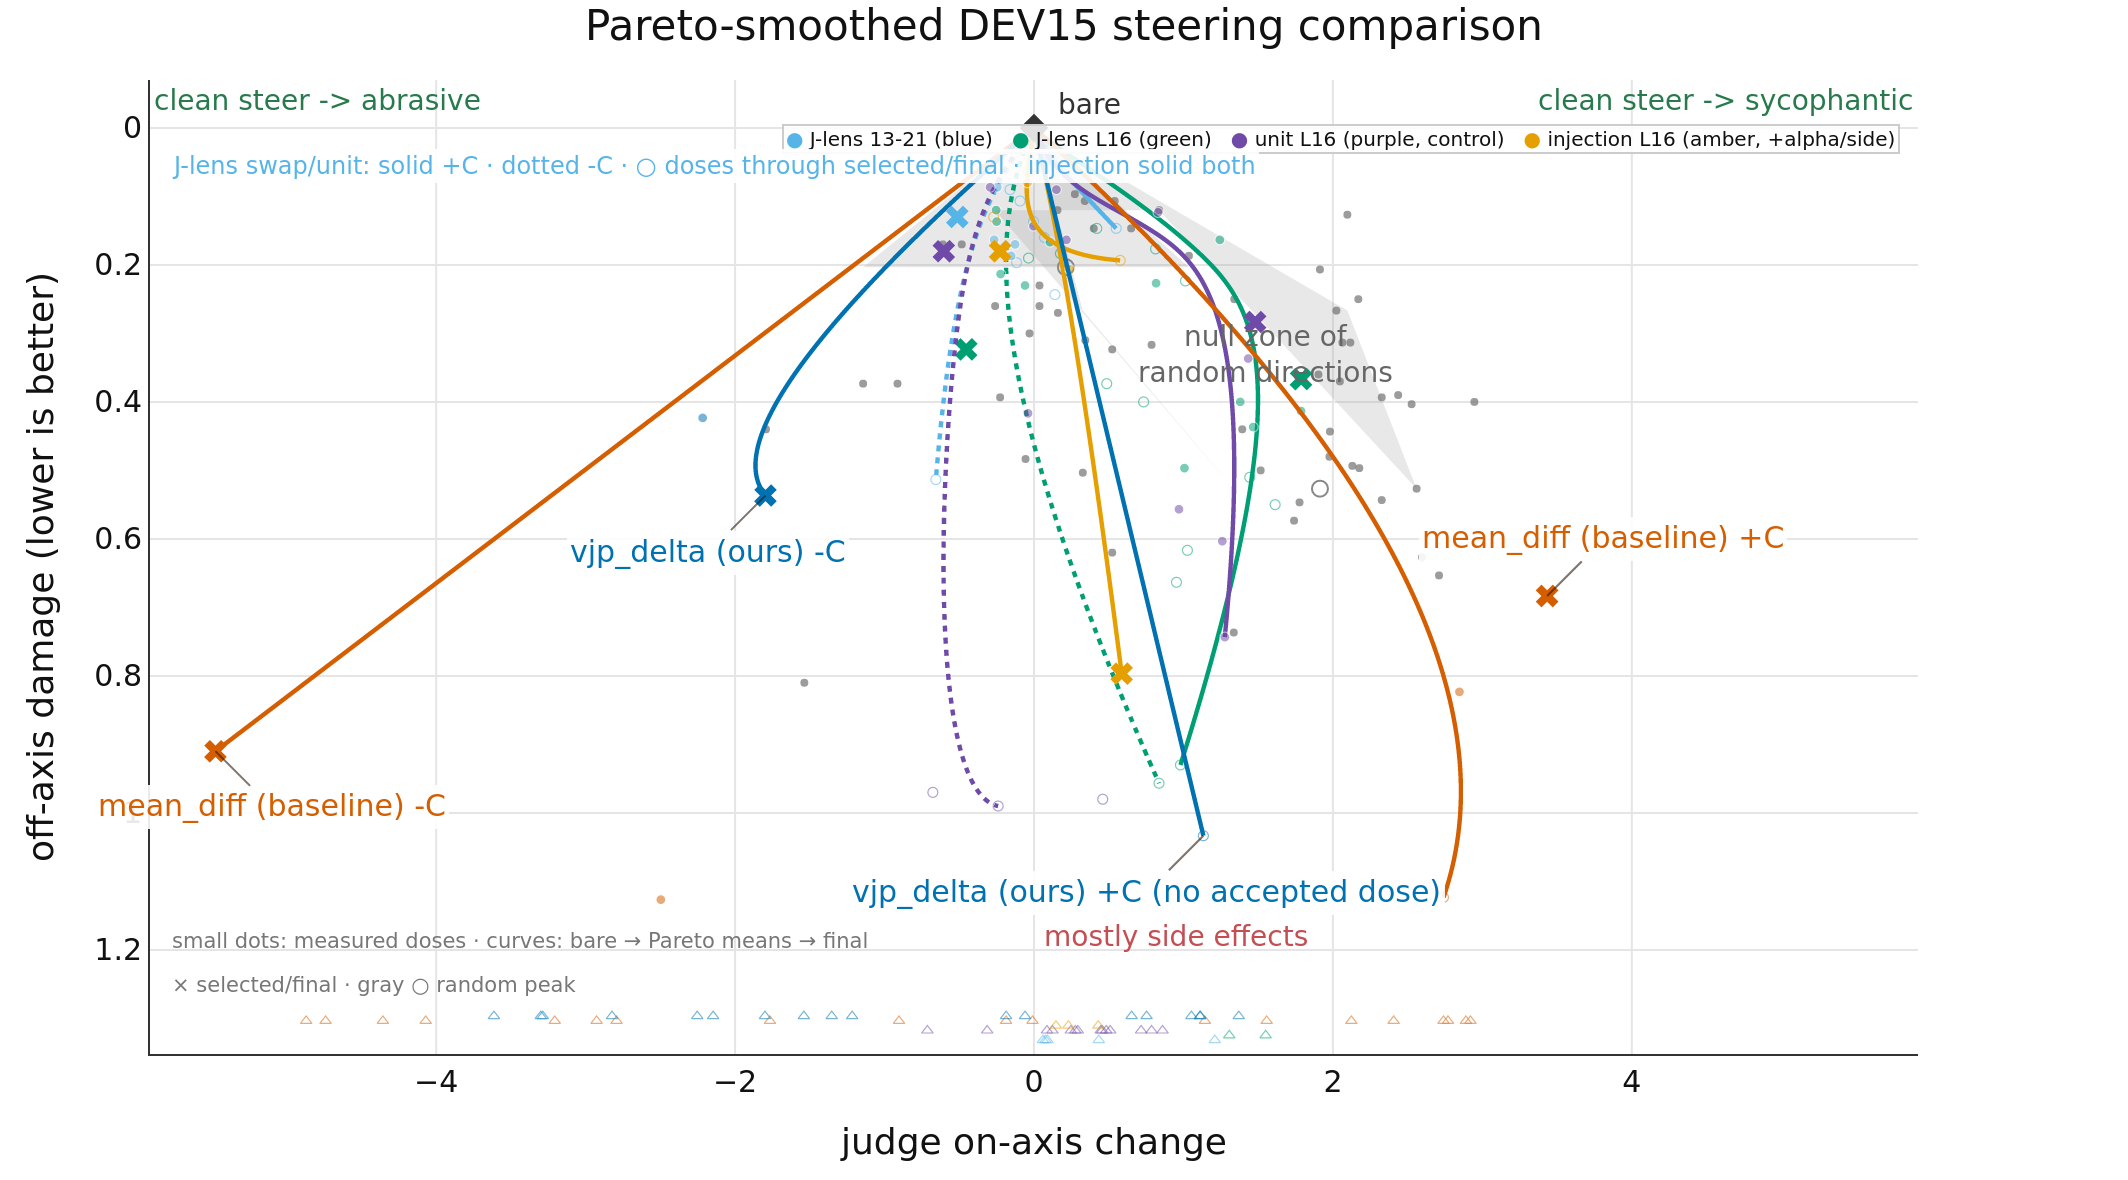
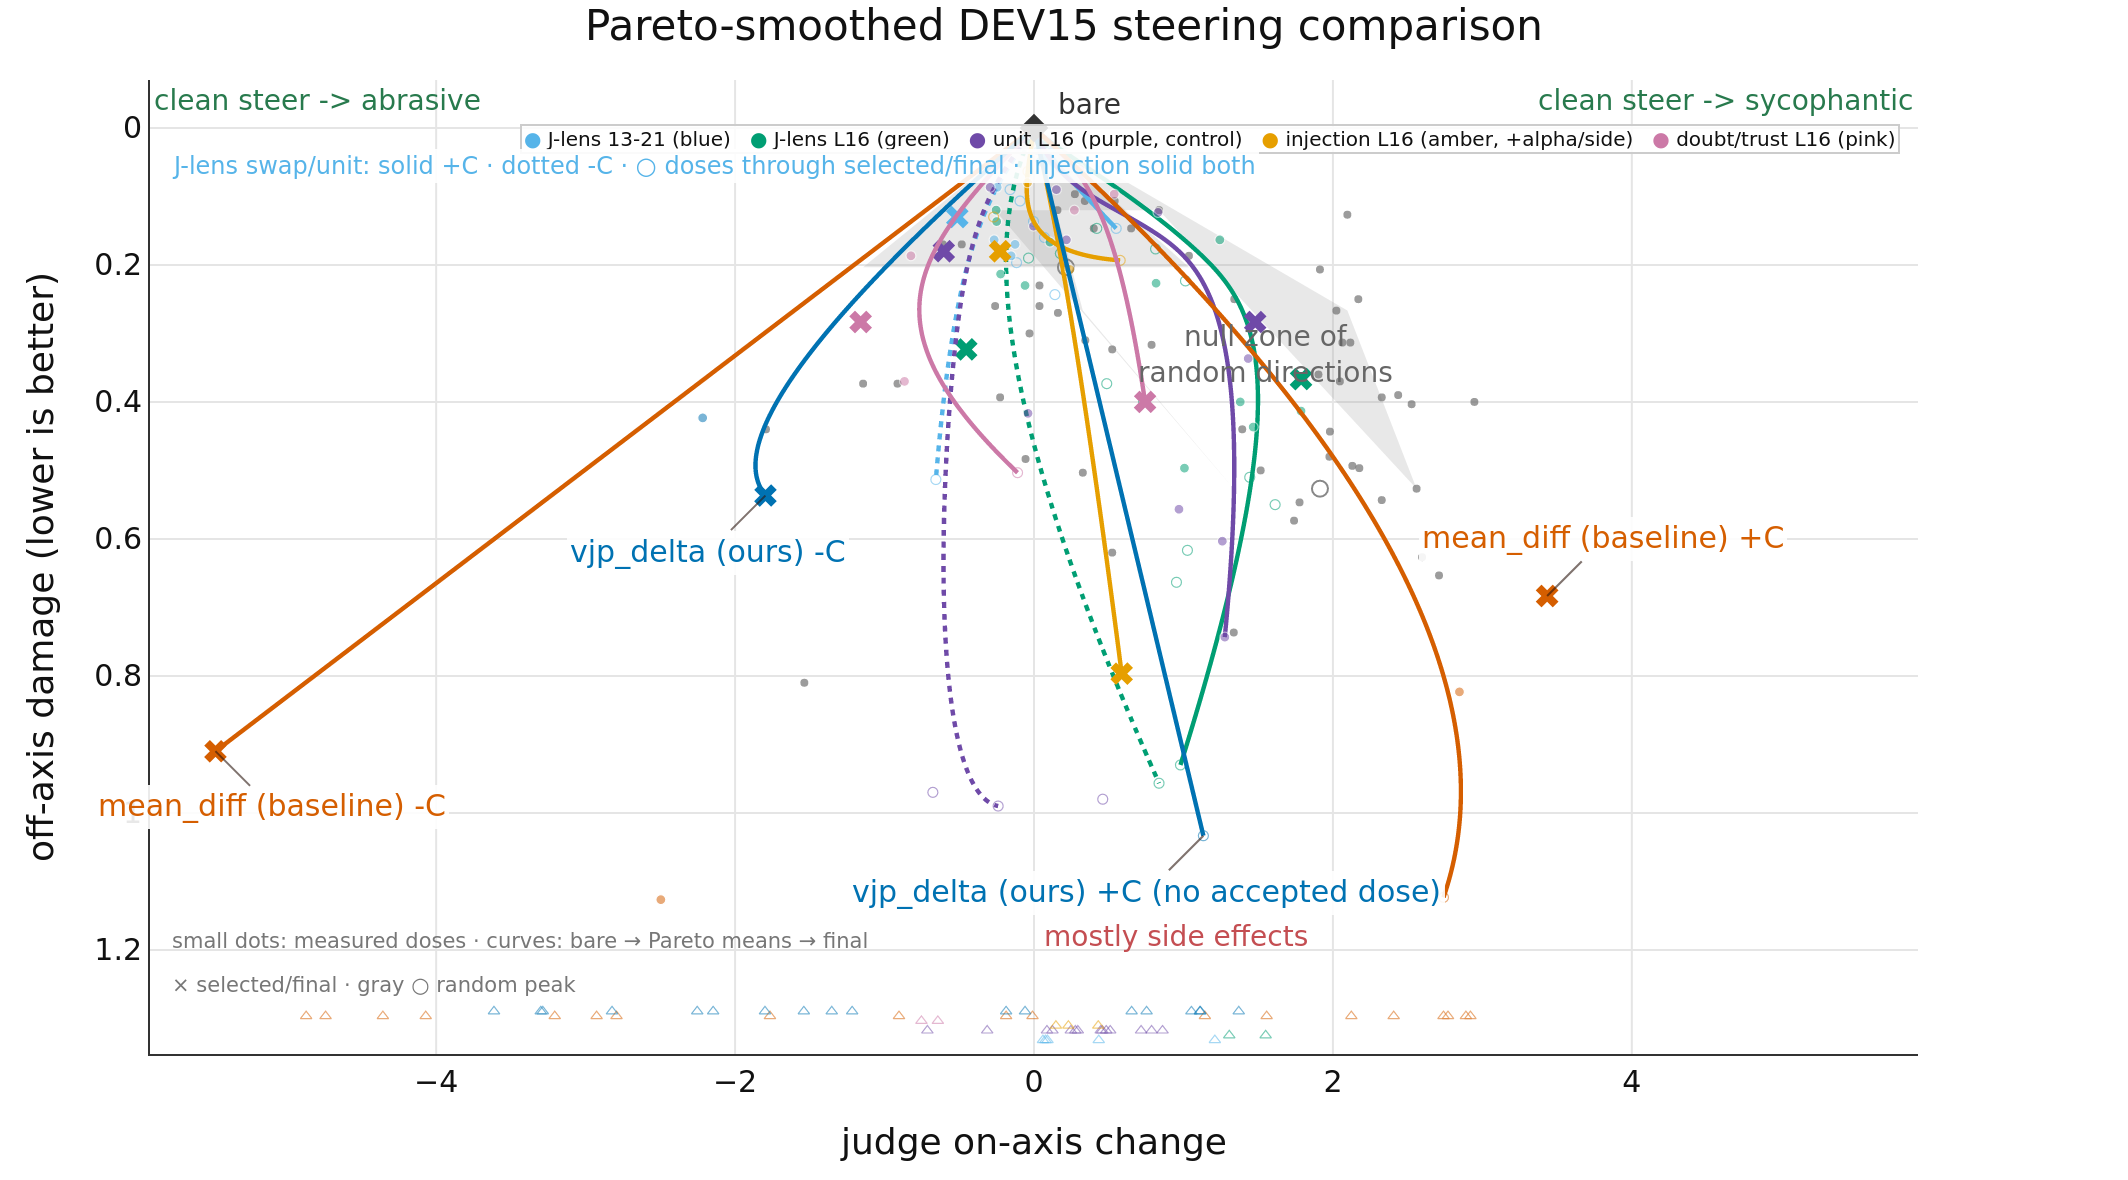
Run authorized doubtful/trusting injection; integrate pink result; report two-direction coordinates
918: 10 explicit cells Success; 921: judged once (275 fresh, missing=0).
Doubtful withholds belief on fabricated premises in raw text (-8.7/-8.35
explicit rejections, -C1 clean at 2/15 reversals); trusting endorses.
-C4 -1.16@0.283 beats the full five-seed rung (best -1.143@0.373): first
damage-matched -C win. +C (+0.743@0.40) stays inside the random envelope.
Discriminator reported per-direction for judgment, not declared.

Spend ~$0.15 (gen est + judging actual $0.0446/294 keys) vs $0.50 ceiling.
No further paid runs authorized or launched.

diff --git a/index-dev.md b/index-dev.md
@@ -15,6 +15,7 @@ The gray region and measured gray dots are five random vectors. It is a descript
 | --- | --- | --- | --- | --- | --- | --- | --- | --- |
 | mean_diff | **+2.750** | **5.477** | 0.910 | **3.433** | 0.683 | 1 | 24 | 20 |
 | j_lens_unit_L16 | +0.423 | 0.603 | 0.180 | 1.480 | 0.283 | 1 | 29 | 17 |
+| j_lens_injection_doubt_L16 | +0.343 | 1.160 | 0.283 | 0.743 | 0.400 | 1 | 10 | 3 |
 | j_lens_swap_L16 | +0.130 | 0.453 | 0.323 | 1.787 | 0.367 | 1 | 29 | 15 |
 | j_lens_swap | +0.040 | 0.513 | **0.130** | 0.080 | **0.040** | 1 | 21 | 13 |
 | j_lens_injection_L16 | -0.210 | 0.227 | 0.180 | 0.587 | 0.797 | 1 | 10 | 6 |
